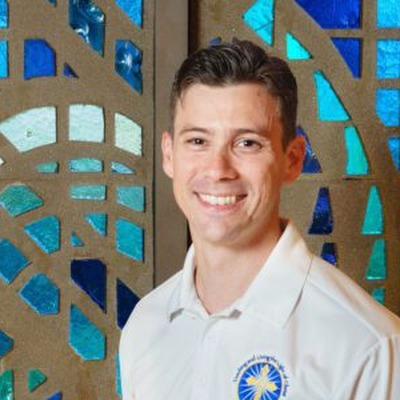
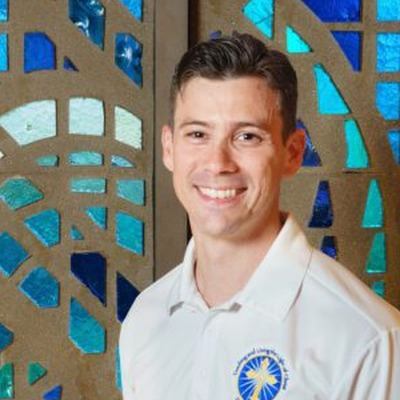
Zoom Holquin/Bulman; fix Trent Horn crop; add Buttiglione foreword (featured); Guerra featured

diff --git a/index.html b/index.html
@@ -279,7 +279,11 @@
                 <div class="endorser-initial" style="display:none">+S</div>
                 <div class="endorser-body"><blockquote>"I welcome initiatives such as this volume, <em>Faith in Crisis</em>, which seeks to reaffirm ecclesial communion and the authentic meaning of the liturgy. There is only one &lsquo;Mass of the Ages&rsquo;: the one regulated by the Church&rsquo;s living Magisterium. To deny the Second Vatican Council is to deny the Catholic faith in the Church itself."</blockquote><cite>† Odilo Pedro Cardinal Scherer</cite><span class="cite-role">Archbishop of São Paulo, Brazil</span></div>
             </div>
-            <div class="endorser-card">
+            <div class="endorser-card featured">
+                <div class="endorser-initial" style="display:flex">RB</div>
+                <div class="endorser-body"><blockquote>"This book takes the objections of traditionalists against Pope Francis seriously and answers them not from the point of view of a superficial progressivism but from that of the true and great Tradition of the Church. <em>Faith in Crisis</em> is a model of the hermeneutics of reform in continuity recommended by Benedict XVI. Different popes are like great orchestra directors, each one with his distinct personality and each one brings out different aspects of the same symphony—the symphony of the Faith."</blockquote><cite>Rocco Buttiglione</cite><span class="cite-role">From the Foreword — Ordinary Member, Pontifical Academy of Social Sciences &amp; Pontifical Academy of St. Thomas Aquinas; Collaborator of Pope St. John Paul II</span></div>
+            </div>
+            <div class="endorser-card featured">
                 <img src="endorser-rodrigo-guerra.jpg" alt="Rodrigo Guerra" class="endorser-photo" onerror="this.style.display='none';this.nextElementSibling.style.display='flex'">
                 <div class="endorser-initial" style="display:none">RG</div>
                 <div class="endorser-body"><blockquote>"<em>Faith in Crisis</em> allows us to appreciate, through different voices, how much we need to overcome pharisaical attitudes and rediscover the most elementary thing: Christianity is not a set of values, but a living Person encountered in the Church."</blockquote><cite>Rodrigo Guerra, PhD</cite><span class="cite-role">Secretary, Pontifical Commission for Latin America; Ordinary Member, Pontifical Academy for Life; Professor, Pontifical Lateran University</span></div>
@@ -295,7 +299,7 @@
                 <div class="endorser-body"><blockquote>"This is a splendid collection... a call to remember that the deepest and most essential resource of Catholic tradition is the law of love, given by him who laid down his life for his brothers and sisters."</blockquote><cite>Dr. David Bentley Hart</cite><span class="cite-role">Collaborative Researcher, University of Notre Dame; Author, <em>All Things Are Full of Gods</em> (Yale, 2024)</span></div>
             </div>
             <div class="endorser-card">
-                <img src="endorser-trent-horn.jpg" alt="Trent Horn" class="endorser-photo" onerror="this.style.display='none';this.nextElementSibling.style.display='flex'">
+                <img src="endorser-trent-horn.jpg" alt="Trent Horn" class="endorser-photo" style="object-position:center 20%" onerror="this.style.display='none';this.nextElementSibling.style.display='flex'">
                 <div class="endorser-initial" style="display:none">TH</div>
                 <div class="endorser-body"><blockquote>"While Catholic tradition is good and beautiful, fundamentalism disguised as traditionalism is false and can be downright ugly. <em>Faith in Crisis</em> has assembled an excellent team of authors to show where this fundamentalism goes wrong."</blockquote><cite>Trent Horn, MA</cite><span class="cite-role">Host of The Counsel of Trent; Author of <em>Why We&rsquo;re Catholic</em></span></div>
             </div>
